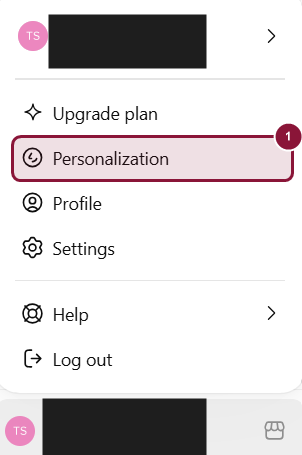
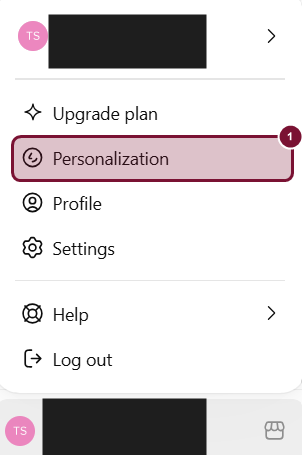
גדלים וצבע סימונים זהים למדריכי Legal Mind: רוחב צילום, עיגול 22px, בורדו

Changed region(s): [[0.0298, 0.2462, 1.0, 0.4]]

diff --git a/guide-1.html b/guide-1.html
@@ -913,7 +913,7 @@ figure > figcaption {
 .zoomer .zoomer-cap{margin:14px auto 0;max-width:760px;color:#fff;text-align:center;font-size:1rem;opacity:.9}
 .zoomer .zoomer-pan{margin:.4rem 0 0;font-size:.9rem;opacity:.85;display:none}
 .zoomer .zoomer-cap.is-wide .zoomer-pan{display:block}
-.shot-legend li > b{background:#8A1538 !important;color:#fff !important}
+.shot-legend li > b{background:#7A1233 !important;color:#fff !important}
 .sec-lead{font-size:1.06em;line-height:1.75;color:var(--ink-soft);margin:0 0 16px;padding:0 0 12px;border-bottom:1px dashed var(--line-strong)}
 .draft-ribbon{position:sticky;top:0;z-index:60;background:#8A1538;color:#fff;text-align:center;font:700 13px/1.4 'Assistant',sans-serif;padding:7px 12px}
 .draft-pending .image-placeholder__box{border-color:#C9A227;background:#FFF8E1;color:#5B4A0A;text-align:center}
@@ -1060,33 +1060,33 @@ figure > figcaption {
         <p>בחשבון <bdi dir="ltr">Free, Go, Plus</bdi> או <bdi dir="ltr">Pro</bdi>:</p>
         <p><code dir="ltr">Settings &gt; Data controls &gt; Export data</code></p>
         
-        <figure class="image-placeholder">
+        <figure>
           <div class="shot-frame"><img class="shot-real" src="img/cg1-01-menu-settings.png" alt="תפריט החשבון, השורה Settings"></div>
           <figcaption>לחצו על <bdi dir="ltr">Settings</bdi> בתפריט החשבון.</figcaption>
         </figure>
         <ul class="shot-legend"><li><b>1 </b><span><bdi dir="ltr">Settings</bdi>: פותח את חלון ההגדרות של החשבון.</span></li></ul>
         
-        <figure class="image-placeholder">
+        <figure>
           <div class="shot-frame"><img class="shot-real" src="img/cg1-02-data-controls-export.png" alt="Settings > Data controls, הכפתור Export"></div>
           <figcaption><bdi dir="ltr">Settings &gt; Data controls</bdi></figcaption>
         </figure>
         <ul class="shot-legend"><li><b>1 </b><span>לשונית <bdi dir="ltr">Data controls</bdi>.</span></li><li><b>2 </b><span><bdi dir="ltr">Export</bdi>: לחיצה עליו מבקשת ייצוא של נתוני החשבון.</span></li></ul>
         <p>לחצו על <bdi dir="ltr">Export</bdi>, ובמסך האישור לחצו על <bdi dir="ltr">Confirm export</bdi> כדי לבקש ייצוא של נתוני החשבון.</p>
         
-        <figure class="image-placeholder">
+        <figure>
           <div class="shot-frame"><img class="shot-real" src="img/cg1-03-confirm-export.png" alt="חלון האישור Request data export"></div>
           <figcaption><bdi dir="ltr">Request data export</bdi></figcaption>
         </figure>
         <ul class="shot-legend"><li><b>1 </b><span>רשימת הפרטים: מה ייכלל בייצוא, לאן יישלח ולכמה זמן הקישור תקף.</span></li><li><b>2 </b><span><bdi dir="ltr">Confirm export</bdi>: שולח את הבקשה. הלחיצה לא מוחקת ולא משנה דבר בחשבון.</span></li></ul>
         
-        <figure class="image-placeholder">
+        <figure>
           <div class="shot-frame"><img class="shot-real" src="img/cg1-04-export-requested.png" alt="הודעה ירוקה: הבקשה התקבלה"></div>
           <figcaption>הבקשה התקבלה</figcaption>
         </figure>
         <ul class="shot-legend"><li><b>1 </b><span>ההודעה הירוקה: הבקשה נקלטה, והפרטים יישלחו במייל. הקובץ עצמו עוד לא נשלח.</span></li></ul>
         <p>כשהייצוא מוכן מתקבלת הודעה בדוא"ל (או ב-<bdi dir="ltr">SMS</bdi> בחשבון שרשום רק עם מספר טלפון). ההודעה יכולה להגיע עד 7 ימים אחרי הבקשה. הקישור תקף ל-24 שעות מרגע קבלתו, ודורש שהמשתמש יהיה מחובר לאותו חשבון.</p>
         
-        <figure class="image-placeholder">
+        <figure>
           <div class="shot-frame"><img class="shot-real" src="img/cg1-06-export-started-email.png" alt="מייל: הכנת הייצוא התחילה"></div>
           <figcaption>המייל הראשון מ-<bdi dir="ltr">OpenAI</bdi></figcaption>
         </figure>
@@ -1129,13 +1129,13 @@ figure > figcaption {
         <h3 class="h2"><bdi dir="ltr">Custom instructions</bdi></h3>
         <p>את ההנחיות האישיות הקבועות רואים תחת <bdi dir="ltr">Personalization</bdi>. הן נכללות בקובץ ה-<bdi dir="ltr">Export</bdi>, אבל כדאי גם להעתיק אותן לקובץ נפרד, כדי להדביק אותן מחדש ב-<bdi dir="ltr">Business</bdi>.</p>
         
-        <figure class="image-placeholder">
+        <figure>
           <div class="shot-frame"><img class="shot-real" src="img/cg1-05-menu-personalization.png" alt="תפריט החשבון, השורה Personalization"></div>
           <figcaption>לחצו על <bdi dir="ltr">Personalization</bdi> בתפריט החשבון.</figcaption>
         </figure>
         <ul class="shot-legend"><li><b>1 </b><span><bdi dir="ltr">Personalization</bdi>: פותח את חלון ההתאמה האישית.</span></li></ul>
         
-        <figure class="image-placeholder">
+        <figure>
           <div class="shot-frame"><img class="shot-real" src="img/cg1-07-custom-instructions.png" alt="תיבת Custom instructions" data-full-src="img/cg1-07-full-personalization.png"></div>
           <figcaption><bdi dir="ltr">Personalization &gt; Custom instructions</bdi></figcaption>
         </figure>
@@ -1143,25 +1143,25 @@ figure > figcaption {
         <h3 class="h2">קבצים בתוך <bdi dir="ltr">Projects</bdi></h3>
         <p>קבצים שהעליתם לפרויקט אפשר להוריד אחד אחד מתוך רשימת המקורות <bdi dir="ltr">(Sources)</bdi> של הפרויקט. לפני המעבר, הורידו את הקבצים החשובים ושמרו אותם בתיקיית הגיבוי.</p>
         
-        <figure class="image-placeholder">
+        <figure>
           <div class="shot-frame"><img class="shot-real" src="img/cg1-08-projects-plus.png" alt="הסרגל הצדדי, הסימן + ליד Projects"></div>
           <figcaption>פתיחת פרויקט חדש</figcaption>
         </figure>
         <ul class="shot-legend"><li><b>1 </b><span>הסימן <bdi dir="ltr">+</bdi> ליד <bdi dir="ltr">Projects</bdi>: פותח פרויקט חדש.</span></li></ul>
         
-        <figure class="image-placeholder">
+        <figure>
           <div class="shot-frame"><img class="shot-real" src="img/cg1-09-sources-add.png" alt="פרויקט, הלשונית Sources והכפתור Add sources"></div>
           <figcaption><bdi dir="ltr">Project &gt; Sources</bdi></figcaption>
         </figure>
         <ul class="shot-legend"><li><b>1 </b><span>לשונית <bdi dir="ltr">Sources</bdi> בתוך הפרויקט.</span></li><li><b>2 </b><span><bdi dir="ltr">Add sources</bdi>: הוספת קבצים לפרויקט.</span></li></ul>
         
-        <figure class="image-placeholder">
+        <figure>
           <div class="shot-frame"><img class="shot-real" src="img/cg1-10-upload.png" alt="חלון Add sources, האפשרות Upload"></div>
           <figcaption><bdi dir="ltr">Add sources</bdi></figcaption>
         </figure>
         <ul class="shot-legend"><li><b>1 </b><span><bdi dir="ltr">Upload</bdi>: בחירת קובץ מהמחשב והעלאתו לפרויקט.</span></li><li><b>2 </b><span>אזור הגרירה: אפשר גם לגרור קובץ ישירות לכאן.</span></li></ul>
         
-        <figure class="image-placeholder">
+        <figure>
           <div class="shot-frame"><img class="shot-real" src="img/cg1-11-download.png" alt="קובץ ברשימת Sources, תפריט עם Download"></div>
           <figcaption>הורדת קובץ מתוך הפרויקט</figcaption>
         </figure>

diff --git a/guide-3.html b/guide-3.html
@@ -887,7 +887,7 @@ figure > figcaption {
 .zoomer .zoomer-cap{margin:14px auto 0;max-width:760px;color:#fff;text-align:center;font-size:1rem;opacity:.9}
 .zoomer .zoomer-pan{margin:.4rem 0 0;font-size:.9rem;opacity:.85;display:none}
 .zoomer .zoomer-cap.is-wide .zoomer-pan{display:block}
-.shot-legend li > b{background:#8A1538 !important;color:#fff !important}
+.shot-legend li > b{background:#7A1233 !important;color:#fff !important}
 .sec-lead{font-size:1.06em;line-height:1.75;color:var(--ink-soft);margin:0 0 16px;padding:0 0 12px;border-bottom:1px dashed var(--line-strong)}
 .draft-ribbon{position:sticky;top:0;z-index:60;background:#8A1538;color:#fff;text-align:center;font:700 13px/1.4 'Assistant',sans-serif;padding:7px 12px}
 .draft-pending .image-placeholder__box{border-color:#C9A227;background:#FFF8E1;color:#5B4A0A;text-align:center}
@@ -963,7 +963,7 @@ figure > figcaption {
         <h3 class="h2">איך יודעים איפה נרכש המנוי</h3>
         <p>בדקו את הקבלה על הרכישה: היא מראה איזו פלטפורמה חייבה אתכם. מנוי שנרכש באתר מופיע ב-<code dir="ltr">Settings &gt; Billing</code>, ובתחתית המסך נמצאת השורה <bdi dir="ltr">Cancel plan</bdi>.</p>
         
-        <figure class="image-placeholder">
+        <figure>
           <div class="shot-frame"><img class="shot-real" src="img/cg3-01-billing-cancel-plan.png" alt="Settings > Billing, המנוי והשורה Cancel plan"></div>
           <figcaption><bdi dir="ltr">Settings &gt; Billing</bdi> (החלק האמצעי של המסך הושמט)</figcaption>
         </figure>

diff --git a/checklist.html b/checklist.html
@@ -994,7 +994,7 @@ figure > figcaption {
 .zoomer .zoomer-cap{margin:14px auto 0;max-width:760px;color:#fff;text-align:center;font-size:1rem;opacity:.9}
 .zoomer .zoomer-pan{margin:.4rem 0 0;font-size:.9rem;opacity:.85;display:none}
 .zoomer .zoomer-cap.is-wide .zoomer-pan{display:block}
-.shot-legend li > b{background:#8A1538 !important;color:#fff !important}
+.shot-legend li > b{background:#7A1233 !important;color:#fff !important}
 .sec-lead{font-size:1.06em;line-height:1.75;color:var(--ink-soft);margin:0 0 16px;padding:0 0 12px;border-bottom:1px dashed var(--line-strong)}
 .draft-ribbon{position:sticky;top:0;z-index:60;background:#8A1538;color:#fff;text-align:center;font:700 13px/1.4 'Assistant',sans-serif;padding:7px 12px}
 .draft-pending .image-placeholder__box{border-color:#C9A227;background:#FFF8E1;color:#5B4A0A;text-align:center}

diff --git a/guide-2.html b/guide-2.html
@@ -887,7 +887,7 @@ figure > figcaption {
 .zoomer .zoomer-cap{margin:14px auto 0;max-width:760px;color:#fff;text-align:center;font-size:1rem;opacity:.9}
 .zoomer .zoomer-pan{margin:.4rem 0 0;font-size:.9rem;opacity:.85;display:none}
 .zoomer .zoomer-cap.is-wide .zoomer-pan{display:block}
-.shot-legend li > b{background:#8A1538 !important;color:#fff !important}
+.shot-legend li > b{background:#7A1233 !important;color:#fff !important}
 .sec-lead{font-size:1.06em;line-height:1.75;color:var(--ink-soft);margin:0 0 16px;padding:0 0 12px;border-bottom:1px dashed var(--line-strong)}
 .draft-ribbon{position:sticky;top:0;z-index:60;background:#8A1538;color:#fff;text-align:center;font:700 13px/1.4 'Assistant',sans-serif;padding:7px 12px}
 .draft-pending .image-placeholder__box{border-color:#C9A227;background:#FFF8E1;color:#5B4A0A;text-align:center}

diff --git a/index.html b/index.html
@@ -288,7 +288,7 @@ figure > figcaption {
 .zoomer .zoomer-cap{margin:14px auto 0;max-width:760px;color:#fff;text-align:center;font-size:1rem;opacity:.9}
 .zoomer .zoomer-pan{margin:.4rem 0 0;font-size:.9rem;opacity:.85;display:none}
 .zoomer .zoomer-cap.is-wide .zoomer-pan{display:block}
-.shot-legend li > b{background:#8A1538 !important;color:#fff !important}
+.shot-legend li > b{background:#7A1233 !important;color:#fff !important}
 .sec-lead{font-size:1.06em;line-height:1.75;color:var(--ink-soft);margin:0 0 16px;padding:0 0 12px;border-bottom:1px dashed var(--line-strong)}
 .draft-ribbon{position:sticky;top:0;z-index:60;background:#8A1538;color:#fff;text-align:center;font:700 13px/1.4 'Assistant',sans-serif;padding:7px 12px}
 .draft-pending .image-placeholder__box{border-color:#C9A227;background:#FFF8E1;color:#5B4A0A;text-align:center}
